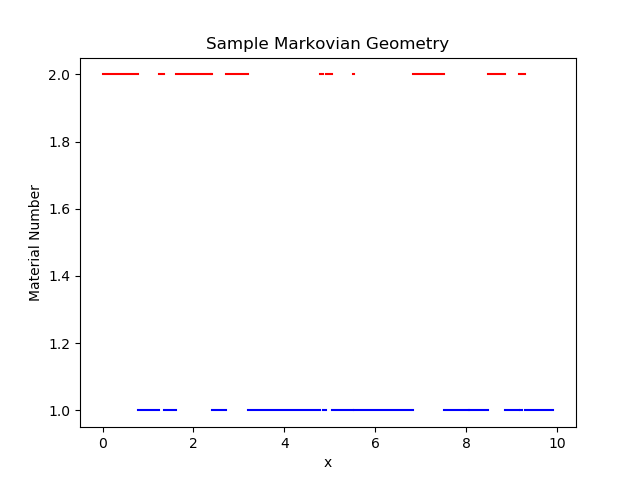
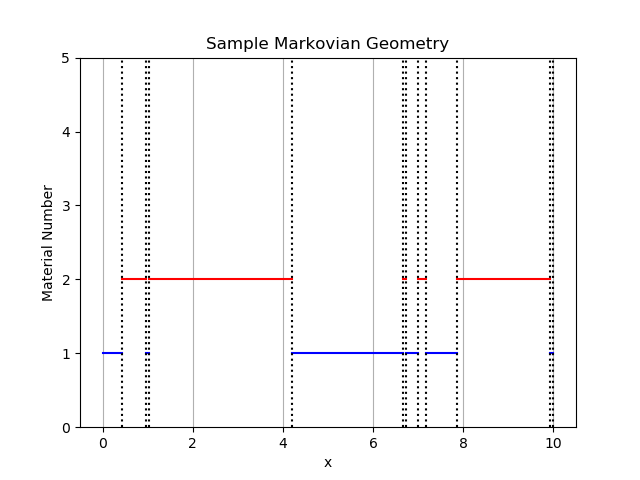
Fixes to geometry plot

diff --git a/src_py/geometry_test_plot.py b/src_py/geometry_test_plot.py
@@ -29,35 +29,38 @@ def main():
                 if material[-1] == 1:
                     if switch_flag_2:
                         mat_2_x = np.append(mat_2_x, x_values[-1])
+                        mat_2 = np.append(mat_2, 2)
                         switch_flag_2 = False
                     switch_flag_1 = True
                     mat_1_x = np.append(mat_1_x, x_values[-1])
                     mat_1 = np.append(mat_1, 1)
-                    mat_1 = np.append(mat_1, 1)
                 if material[-1] == 2:
                     if switch_flag_1:
                         mat_1_x = np.append(mat_1_x, x_values[-1])
+                        mat_1 = np.append(mat_1, 1)
                         switch_flag_1 = False
                     switch_flag_2 = True
                     mat_2_x = np.append(mat_2_x, x_values[-1])
                     mat_2 = np.append(mat_2, 2)
-                    mat_2 = np.append(mat_2, 2)
     if material[-1] == 1:
-        mat_1_x = np.append(mat_1_x, x_values[-1])
+        mat_1_x = mat_1_x[0:-1]
     else:
-        mat_2_x = np.append(mat_2_x, x_values[-1])
+        mat_2_x = mat_2_x[0:-1]
     counter = 0
-    print(mat_1_x[counter: counter + 2])
     while counter < len(mat_1_x):
         plt.plot(mat_1_x[counter:counter + 2], mat_1[counter:counter + 2], color='b')
+        plt.axvline(x=mat_1_x[counter + 1], linestyle=':', color='k')
         counter += 2
     counter = 0
     while counter < len(mat_2_x):
         plt.plot(mat_2_x[counter:counter + 2], mat_2[counter:counter + 2], color='r')
+        plt.axvline(x=mat_2_x[counter + 1], linestyle=':', color='k')
         counter += 2
     plt.title("Sample Markovian Geometry")
     plt.xlabel("x")
     plt.ylabel("Material Number")
+    plt.grid(which='major', axis='x')
+    plt.ylim(0, 5)
     plt.savefig(f"./plots/{plotname}")
     print(f"Plot saved as {plotname}")
     with open("./out/geometry_1.out", "w") as out_1:
